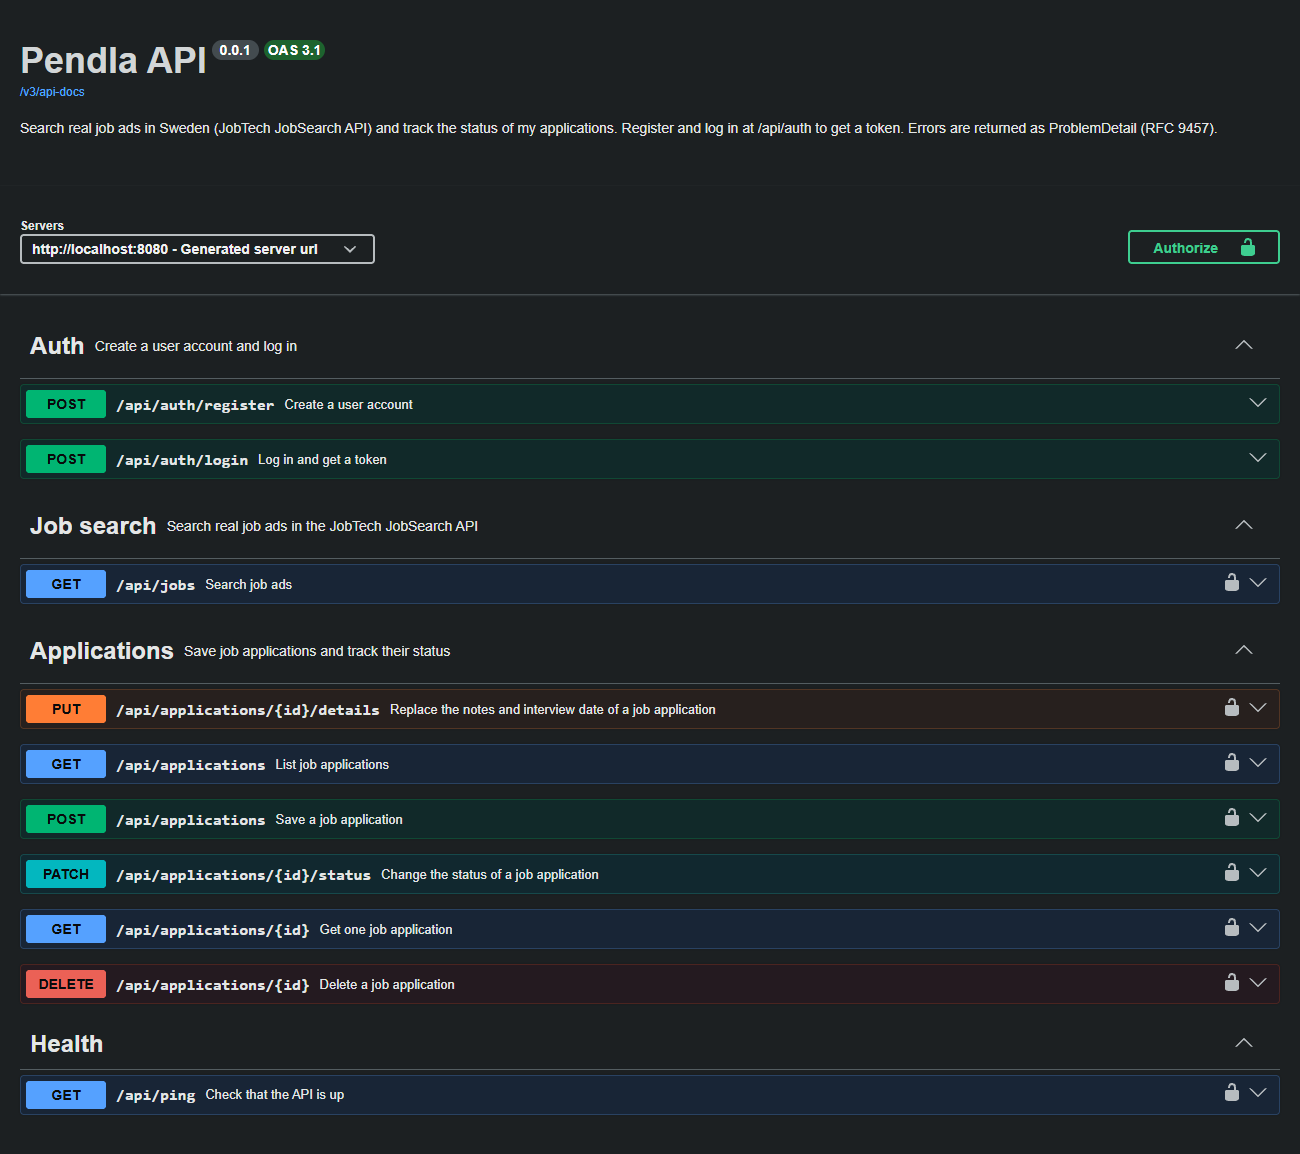
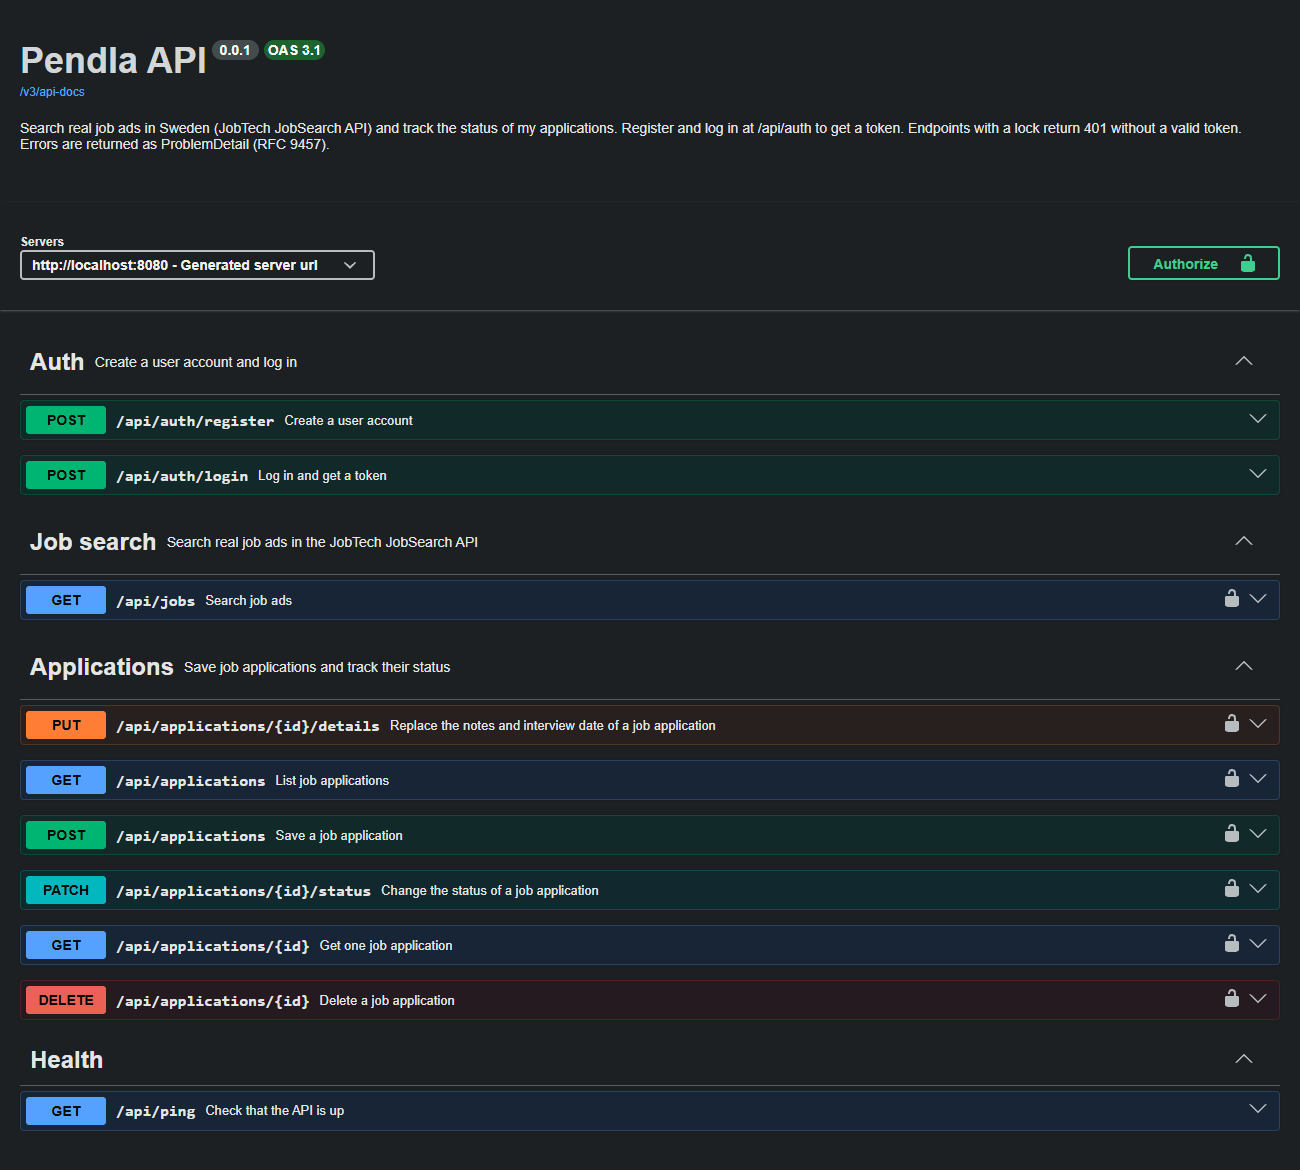
docs: show ping as public in Swagger and document the 401

diff --git a/src/main/java/io/github/anevadog/pendla/common/OpenApiConfig.java b/src/main/java/io/github/anevadog/pendla/common/OpenApiConfig.java
@@ -20,7 +20,7 @@ import io.swagger.v3.oas.annotations.security.SecurityScheme;
 				title = "Pendla API",
 				version = "0.0.1",
 				description = "Search real job ads in Sweden (JobTech JobSearch API) and track the status of my applications. "
-						+ "Register and log in at /api/auth to get a token. "
+						+ "Register and log in at /api/auth to get a token. Endpoints with a lock return 401 without a valid token. "
 						+ "Errors are returned as ProblemDetail (RFC 9457)."),
 		security = @SecurityRequirement(name = "bearerAuth"))
 @SecurityScheme(name = "bearerAuth", type = SecuritySchemeType.HTTP, scheme = "bearer", bearerFormat = "JWT")

diff --git a/src/main/java/io/github/anevadog/pendla/PingController.java b/src/main/java/io/github/anevadog/pendla/PingController.java
@@ -4,6 +4,7 @@ import org.springframework.web.bind.annotation.GetMapping;
 import org.springframework.web.bind.annotation.RestController;
 
 import io.swagger.v3.oas.annotations.Operation;
+import io.swagger.v3.oas.annotations.security.SecurityRequirements;
 import io.swagger.v3.oas.annotations.tags.Tag;
 
 /**
@@ -11,6 +12,8 @@ import io.swagger.v3.oas.annotations.tags.Tag;
  */
 @RestController
 @Tag(name = "Health")
+// Empty on purpose: this endpoint is public, so Swagger shows it without the lock
+@SecurityRequirements
 public class PingController {
 
 	@Operation(summary = "Check that the API is up", description = "Returns pong")
